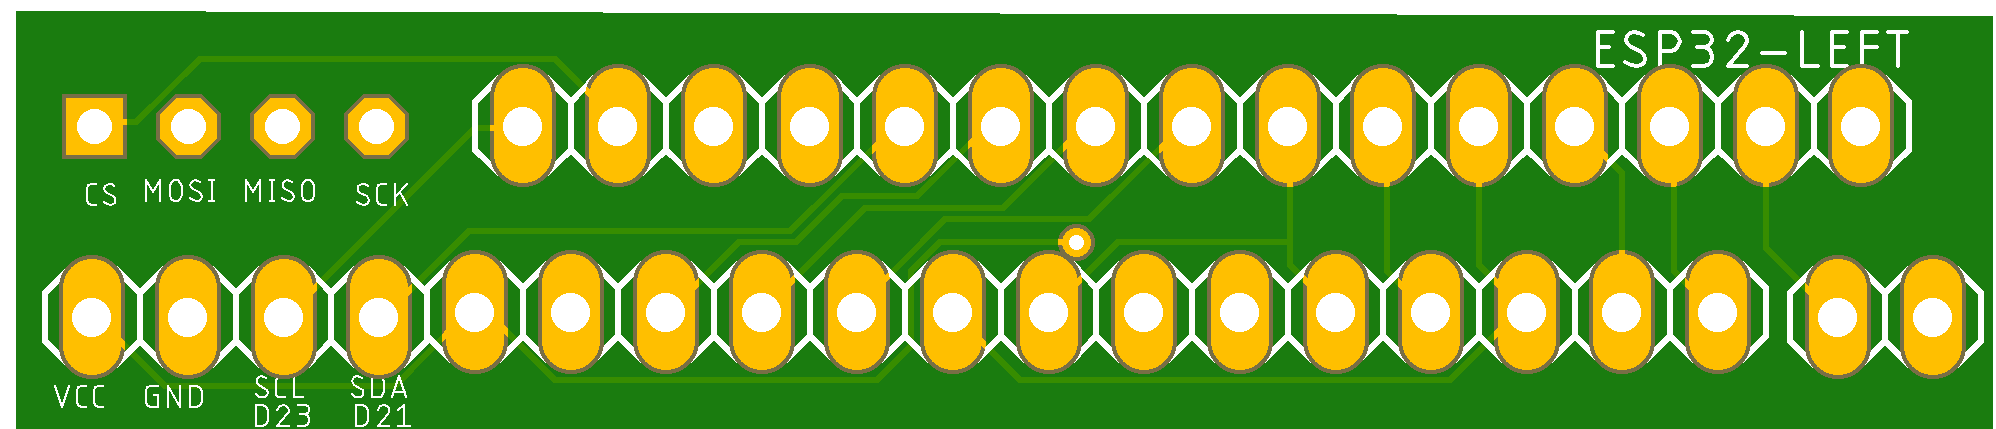
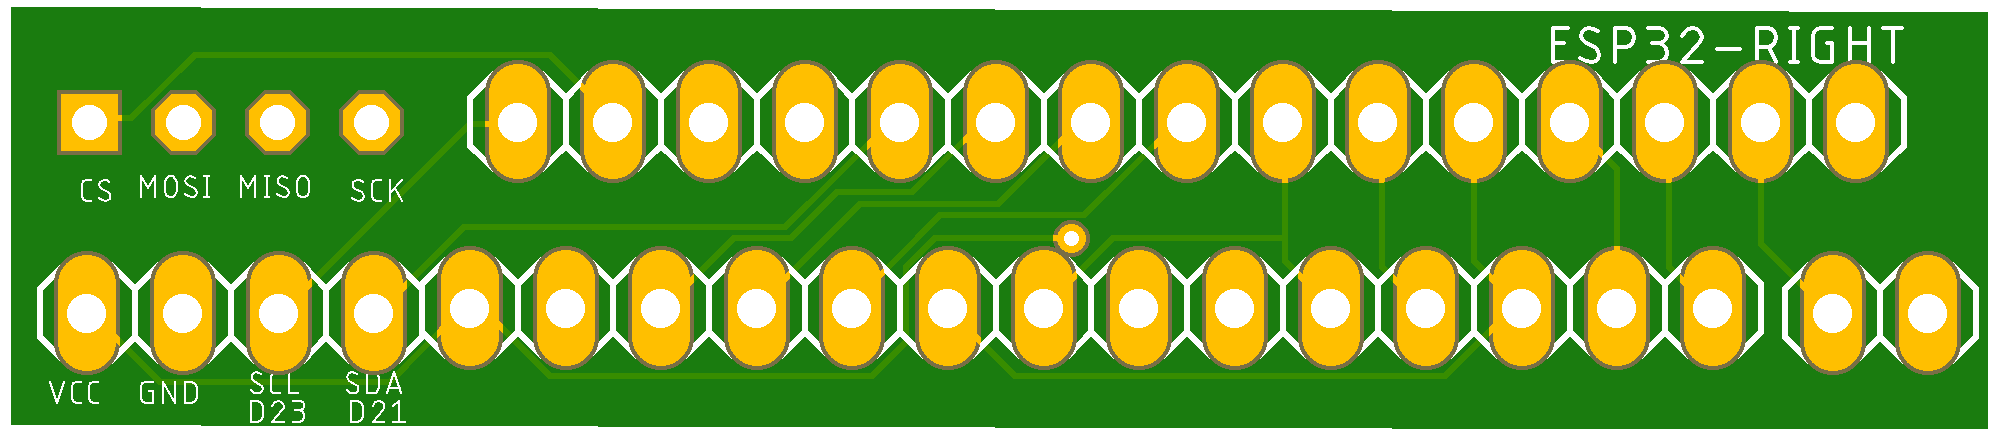
Corrected left vs right nomenclature

Changed region(s): [[0.0, 0.0, 1.0, 1.0]]

diff --git a/README.md b/README.md
@@ -11,19 +11,19 @@ All of the boards are designed using eagle, and any of them can be ordered in ma
 This design consists of two 15 pin pin headers; ESP32-LEFT and ESP32-RIGHT, with wires and labels corresponding to pin functionality. They are not 'connected' to one-another and are generally intended to be used as a quick start in laying out a board for one or the other side of an esp32 Dev Module. 
 
 ## ESP32 Lcd 3.5 Connectors
-This design connects one side of an esp32 Dev Module (ESP32-LEFT) to a LCD touch screen display. The display uses all of the GPIOs on that side except two. A four pin connector supports connecting the display mounted SD socket using a shared SPI. The two unused ports are routed to a four pin I2C connector. 
+This design connects one side of an esp32 Dev Module (ESP32-RIGHT) to a LCD touch screen display. The display uses all of the GPIOs on that side except two. A four pin connector supports connecting the display mounted SD socket using a shared SPI. The two unused ports are routed to a four pin I2C connector. 
 
 [Used with this display](http://www.lcdwiki.com/3.5inch_SPI_Module_ILI9488_SKU:MSP3520)
 
 ## ESP32 I/O Adapter
-This design connects the right side of an esp32 Dev Module to JST ZH 1.5mm keyed connectors. The connectors include
+This design connects the left side of an esp32 Dev Module to JST ZH 1.5mm keyed connectors. The connectors include
 * 1 each 2 pin GS connector (switch)
 * 3 each 3 pin GVS connectors (potentiomer, servo motor, etc)
 * 1 each 4 pin GVSS connector (serial port)
 * 2 each 5 pin GVSSS connectors (thumb joystick)
 
 ## ESP32 Audio / Relay Adapter
-This design connects right side of an esp32 Dev Module to:
+This design connects left side of an esp32 Dev Module to:
 * A three channel relay board
 * A CD4066 based analog switch. Two channels of the CD4066 are connected to 3.5mm TRS (input / output) audio connectors, and the other two are available on a pair of 0.1 in center 3 pin headers.
 * A 3 pin G5VS connector intended to be used for Neopixel Matrix Display

diff --git a/Lcd3.5Connectors/README.md b/Lcd3.5Connectors/README.md
@@ -1,5 +1,5 @@
 # Lcd 3.5 Connectors
-This design connects the left side of an esp32 Dev Module to a LCD touch screen display. The display uses all of the GPIOs on that side except two. A four pin connector supports connecting the display mounted SD socket using a shared SPI. The two unused ports are routed to a four pin I2C connector. 
+This design connects the right side of an esp32 Dev Module to a LCD touch screen display. The display uses all of the GPIOs on that side except two. A four pin connector supports connecting the display mounted SD socket using a shared SPI. The two unused ports are routed to a four pin I2C connector. 
 
 [Used with this display](http://www.lcdwiki.com/3.5inch_SPI_Module_ILI9488_SKU:MSP3520)
 

diff --git a/Esp32Relays/README.md b/Esp32Relays/README.md
@@ -1,5 +1,5 @@
 # Esp32 Relays Board
-This design utilizes the right side of an esp32 Dev Module for:
+This design utilizes the left side of an esp32 Dev Module for:
 
 * A three channel relay board
 * A CD4066 based analog switch. Two channels of the CD4066 are connected to 3.5mm TRS (input / output) audio connectors, and the other two are available on a pair of 0.1 in center 3 pin headers.

diff --git a/Esp32IoAdapt/README.md b/Esp32IoAdapt/README.md
@@ -1,5 +1,5 @@
-# Right Side IO Connectors
-(ESP32-RIGHT) to JST ZH 1.5mm keyed connectors. The connectors include
+# Left Side IO Connectors
+(ESP32-LEFT) to JST ZH 1.5mm keyed connectors. The connectors include
 1. 1 each 2 pin GS connector (switch)
 2. 3 each 3 pin GVS connectors (potentiomer, servo motor, etc). One connector is 0.1 center.
 3. 1 each 4 pin GVSS connector (serial port)
